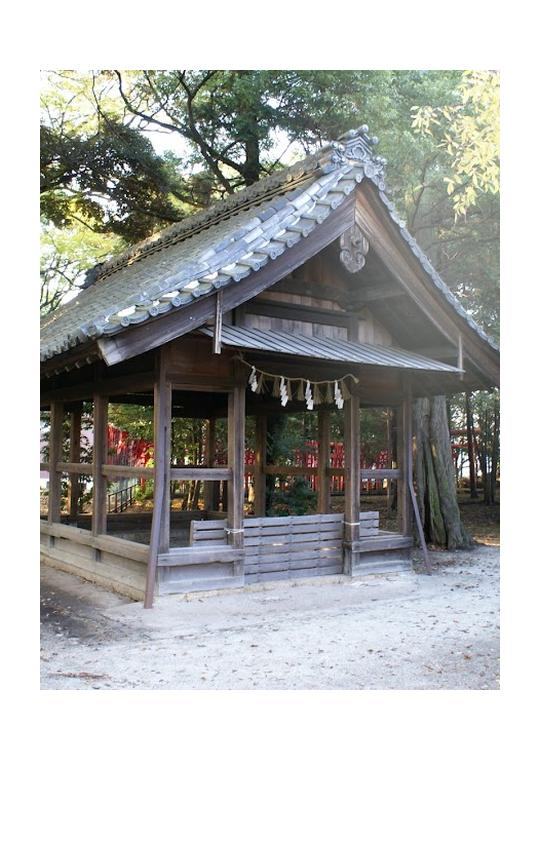
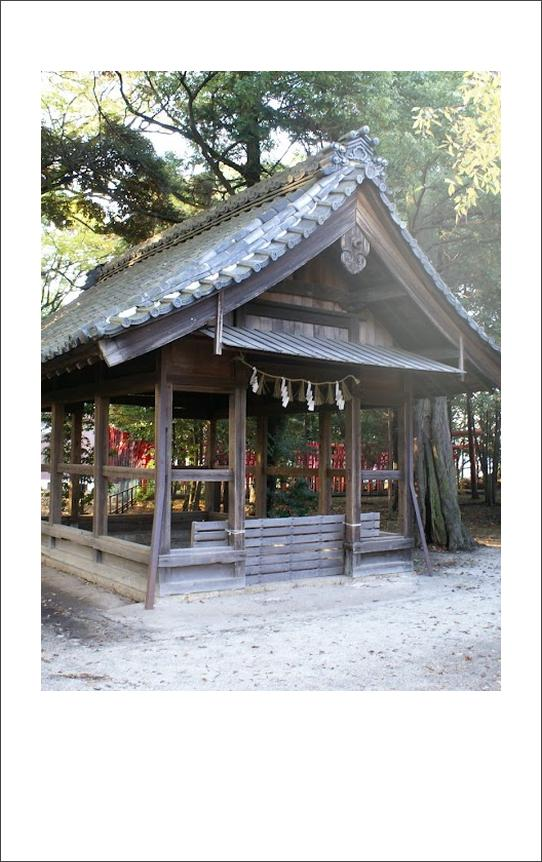
Add: 枠線をつける機能を追加

diff --git a/instantfilm_effect.py b/instantfilm_effect.py
@@ -139,8 +139,7 @@ def add_light_leak_effect(
     :return: 光漏れ効果を適用したImageオブジェクト
     """
     width, height = image.size
-    if verbose_output:
-        print(f"枠画像サイズ: {width}x{height} ピクセル")
+    if verbose_output: print(f"枠画像サイズ: {width}x{height} ピクセル")
 
     # --- 光漏れ用のレイヤー作成 ---
     # 元サイズと同じ黒背景のキャンバス
@@ -176,6 +175,12 @@ def add_light_leak_effect(
     result = Image.blend(image, combined, intensity)
 
     return result
+
+def add_outer_border(image, border_size=1, color=(68, 68, 68)):
+    if verbose_output: print(f"外枠をつけます: Color {color} {border_size}px")
+    return ImageOps.expand(image, border=border_size, fill=color)
+
+
 
 def parse_argument():
     # 引数のパース設定
@@ -265,6 +270,8 @@ def main():
     # instax mini風の枠画像を生成
     instax_image = create_instax_frame(image, scale=10)
 
+
+
     # 光漏れ効果を追加
     if leak_color is None or args.leak_position == "none":
         final_image = instax_image
@@ -275,6 +282,10 @@ def main():
             intensity=leak_intensity,  # 効果の強さ（0.0～1.0）
             leak_position=args.leak_position,  # 光漏れの位置（引数で指定）
         )
+
+    # 外枠を追加
+    final_image = add_outer_border(final_image)
+
 
     # 出力画像として指定されたファイルパスに保存
     try:
